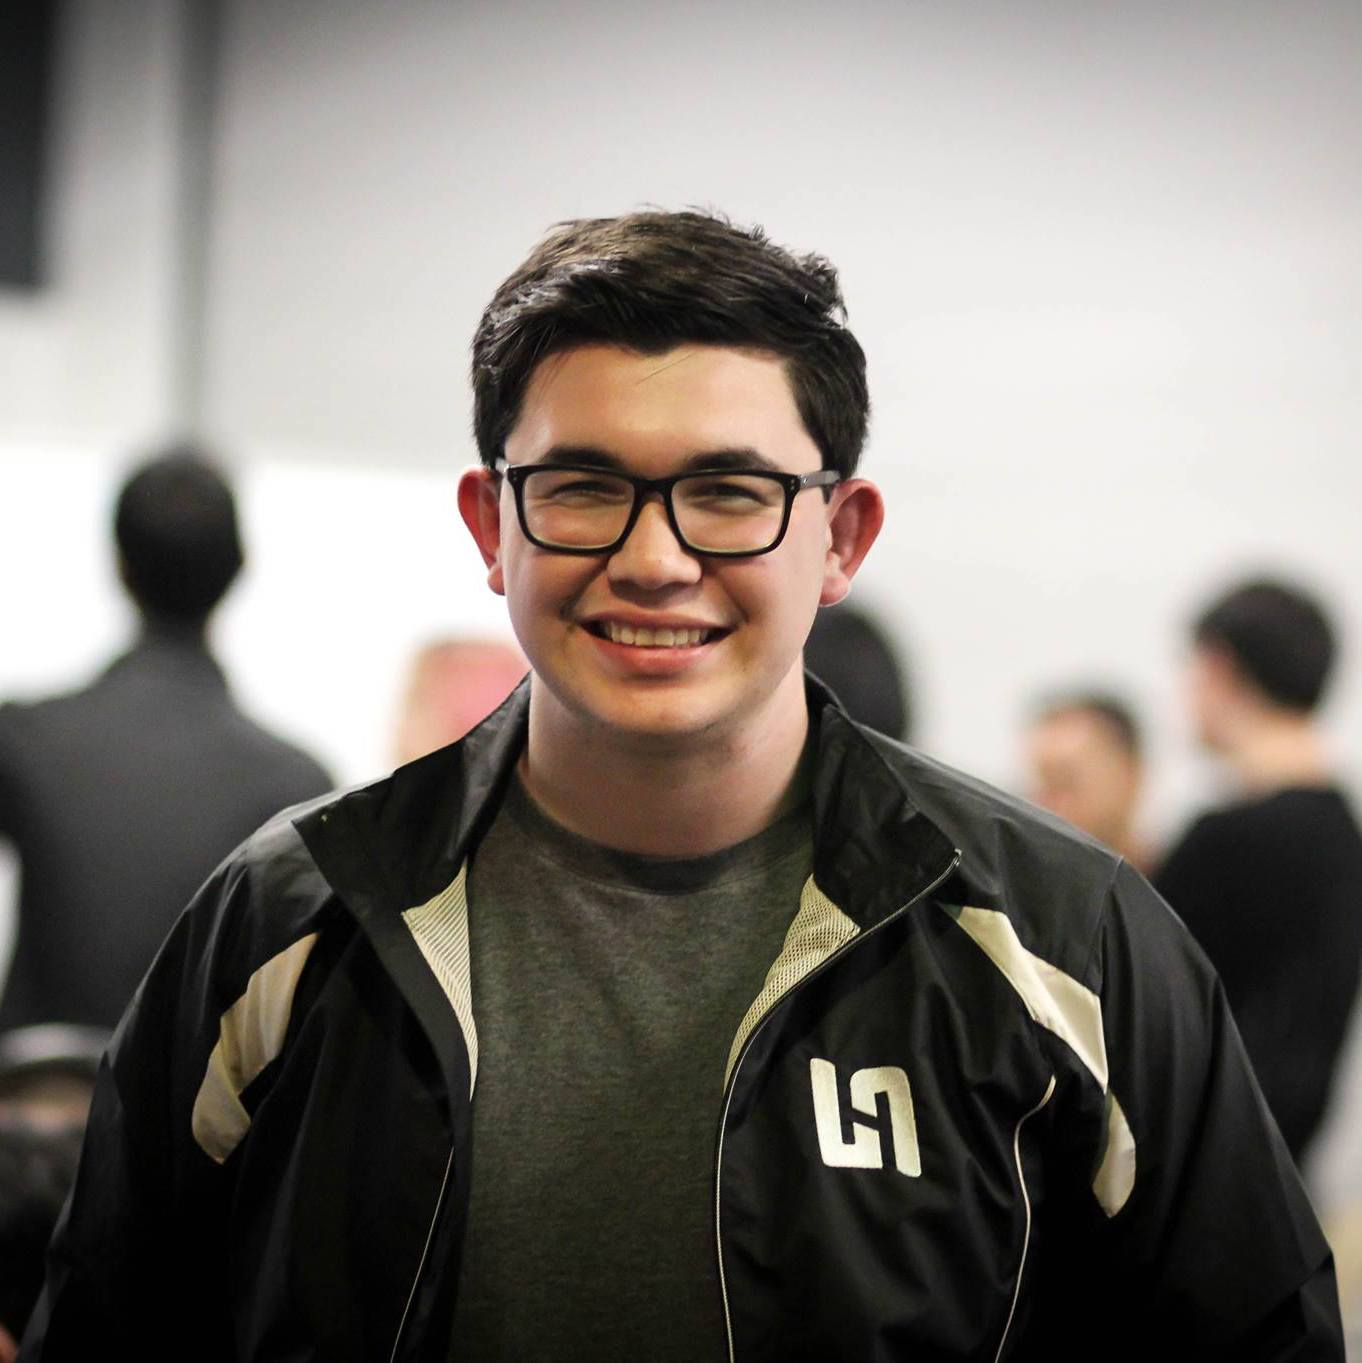
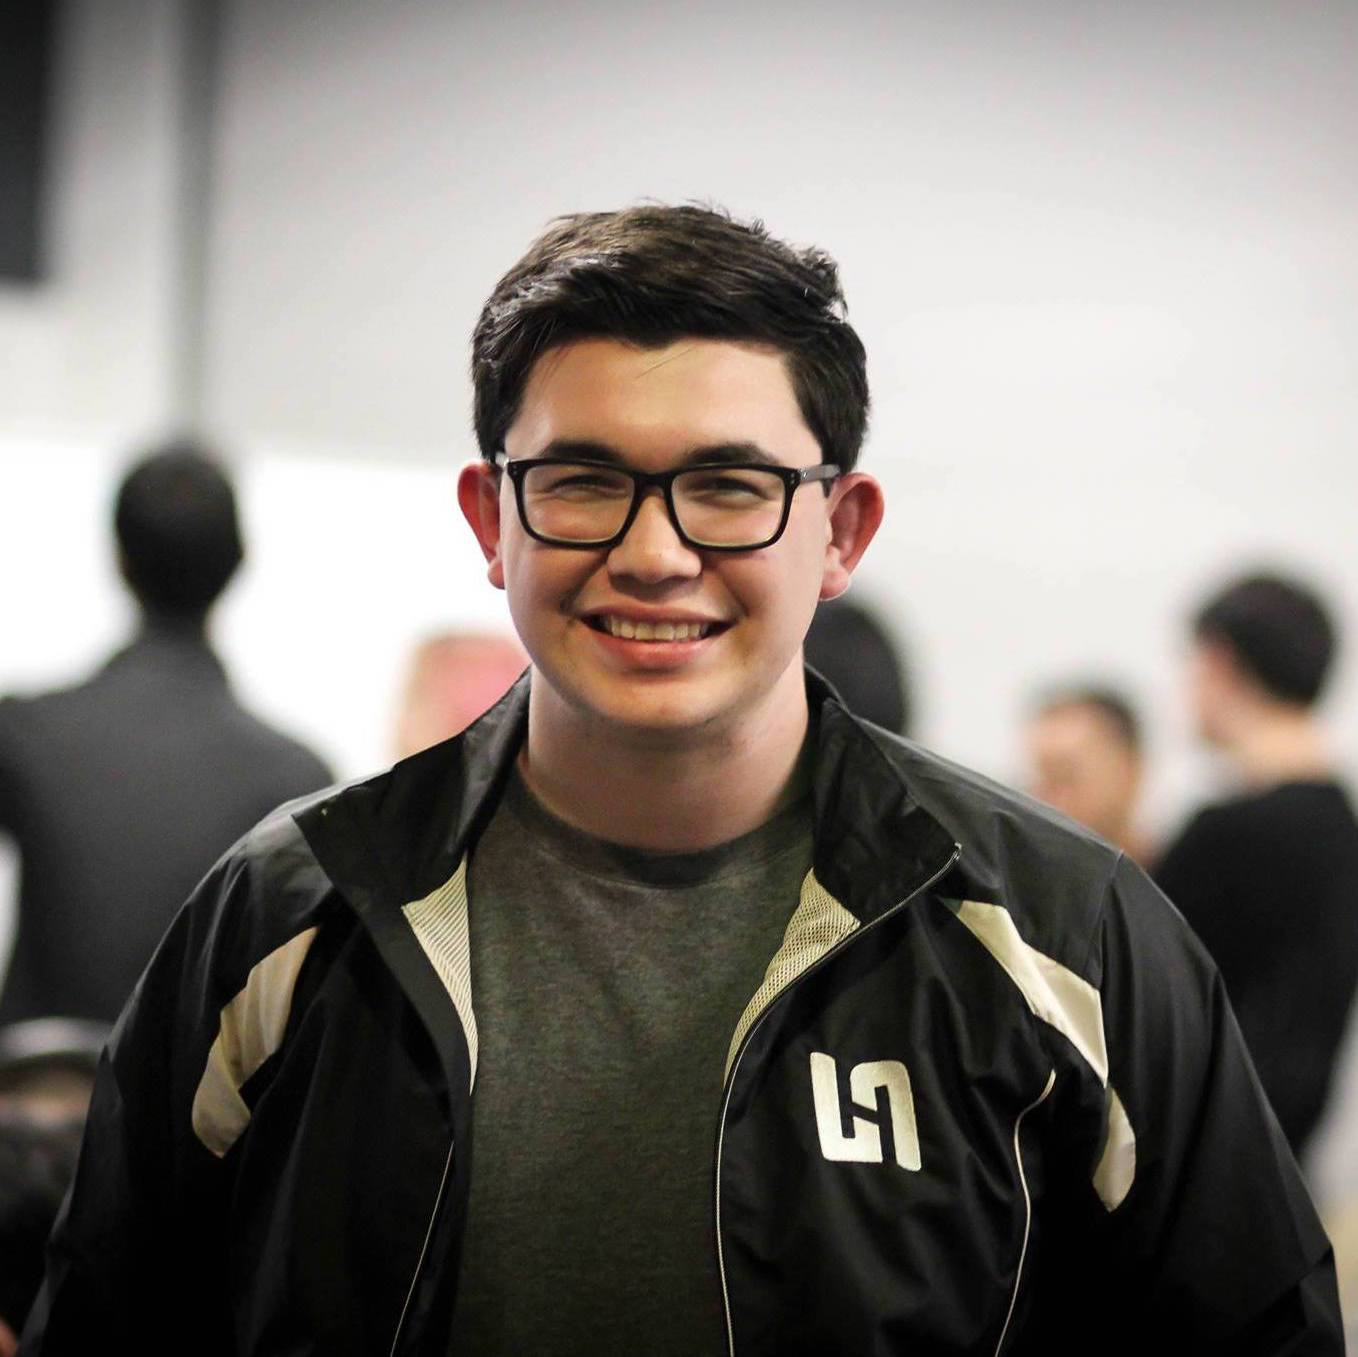
pic changes and desc for about page

diff --git a/app/assets/stylesheets/pages.scss b/app/assets/stylesheets/pages.scss
@@ -493,7 +493,7 @@ ul {
 }
 .member-cards img
 {
-    width: 120px;
+    width: 150px;
     display: inline;
     float: left;
         margin-right: 20px;
